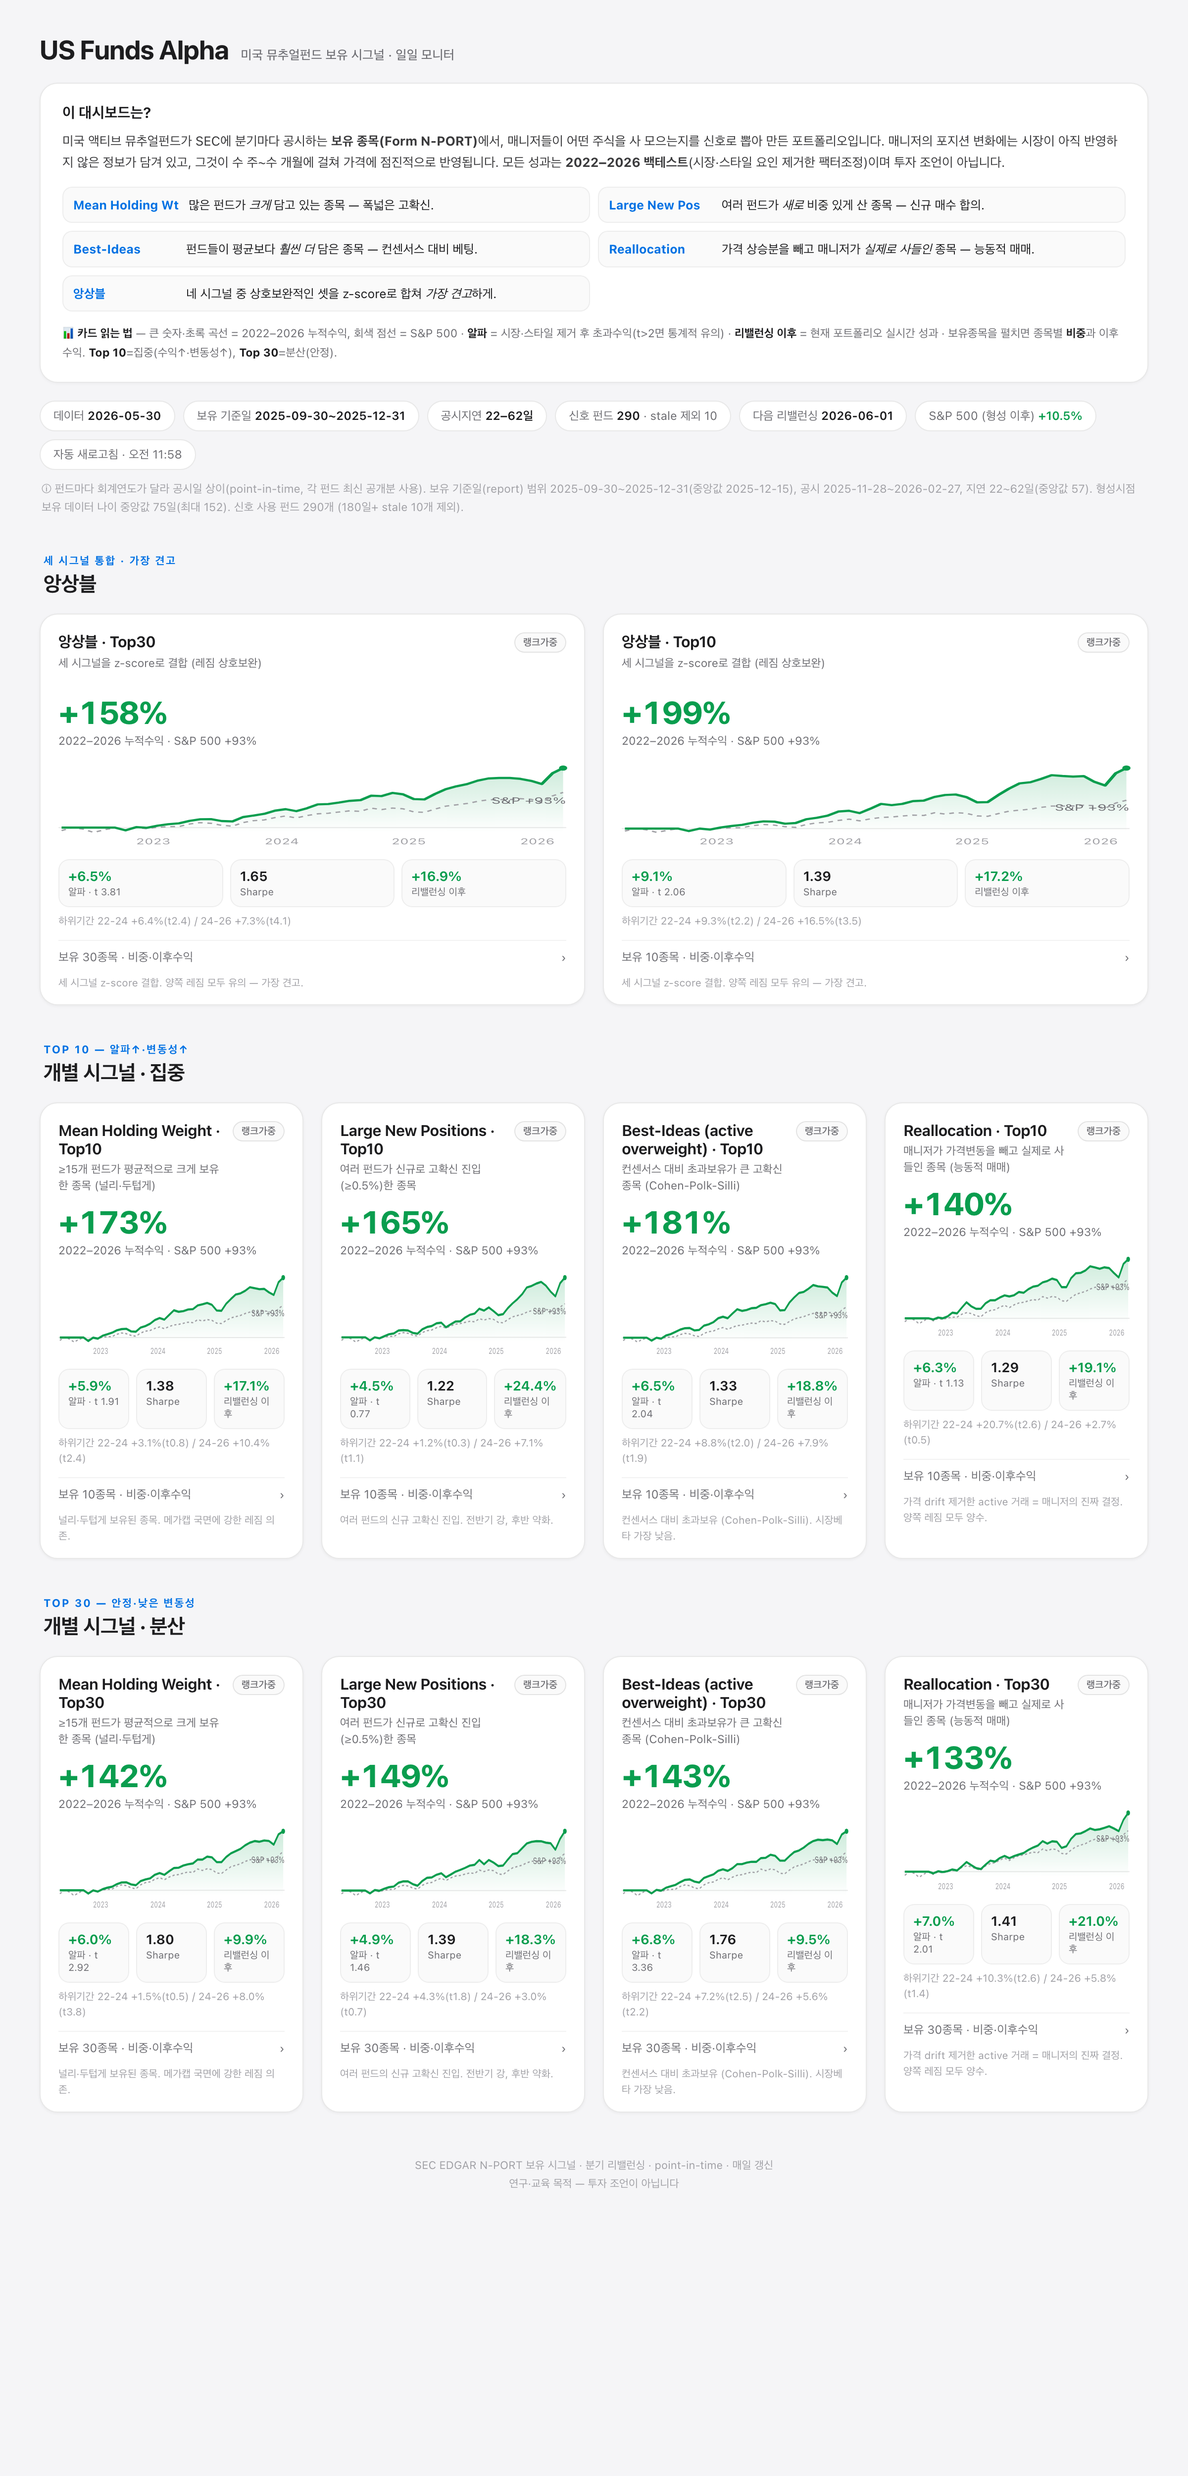
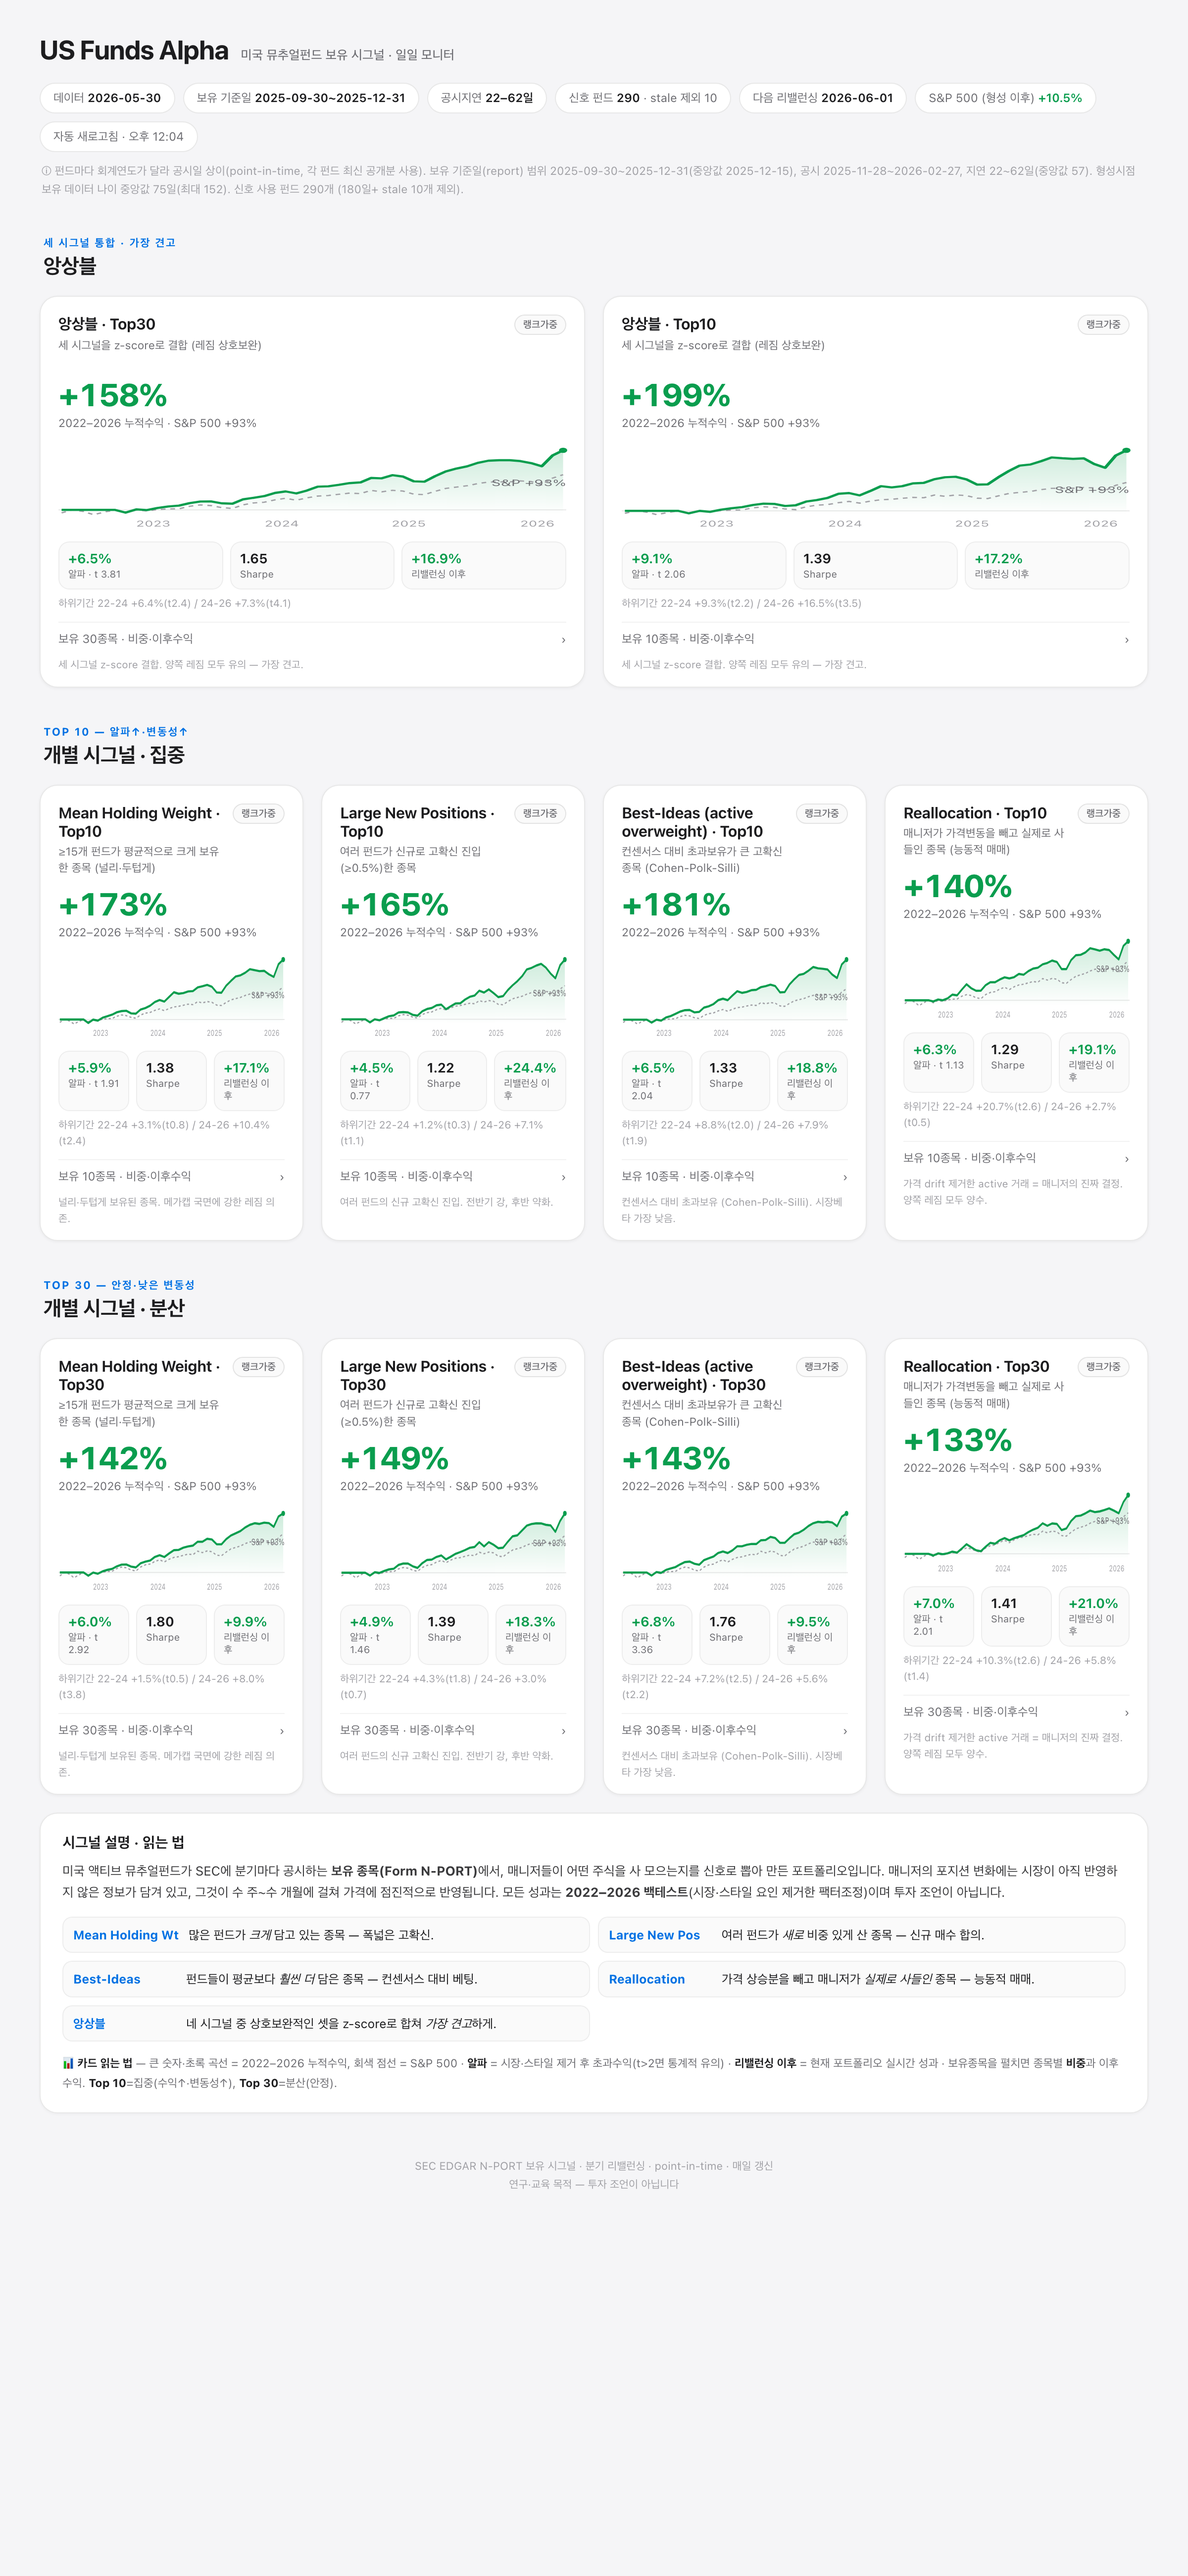
모바일 반응형 보강 + 시그널 설명을 하단으로 이동
- 시그널 설명/읽는 법 패널을 상단 → 카드 하단으로 이동
- 모바일(≤520px): 브랜드 세로 스택, 폰트·패딩 조정, 보유표 가로스크롤
- 데스크톱 스크린샷 갱신

diff --git a/dashboard/index.html b/dashboard/index.html
@@ -95,14 +95,26 @@ details.holds>summary::-webkit-details-marker{display:none}
 .hhead{color:var(--mut2);font-size:9.5px;font-weight:600;border-bottom:1px solid var(--line)}
 .note{color:var(--mut2);font-size:10.5px;line-height:1.55;margin:10px 0 0}
 .foot{color:var(--mut2);font-size:11px;text-align:center;margin-top:44px;line-height:1.7}
+@media(max-width:520px){
+  .wrap{padding:22px 13px 64px}
+  .brand{flex-direction:column;gap:3px} .brand h1{font-size:23px}
+  .hero .num{font-size:29px}
+  .hl{overflow-x:auto} .hrow{min-width:300px}
+  .intro{padding:16px 16px}
+}
 </style>
 </head>
 <body>
 <div class="wrap">
   <div class="brand"><h1>US Funds Alpha</h1><span class="tag">미국 뮤추얼펀드 보유 시그널 · 일일 모니터</span></div>
 
+  <div class="meta" id="meta"></div>
+  <div class="disc" id="disc"></div>
+  <div class="alert" id="alert"></div>
+  <div id="sections"></div>
+
   <div class="intro">
-    <h3>이 대시보드는?</h3>
+    <h3>시그널 설명 · 읽는 법</h3>
     <p>미국 액티브 뮤추얼펀드가 SEC에 분기마다 공시하는 <b>보유 종목(Form&nbsp;N-PORT)</b>에서, 매니저들이
        어떤 주식을 사 모으는지를 신호로 뽑아 만든 포트폴리오입니다. 매니저의 포지션 변화에는 시장이 아직
        반영하지 않은 정보가 담겨 있고, 그것이 수 주~수 개월에 걸쳐 가격에 점진적으로 반영됩니다.
@@ -119,10 +131,6 @@ details.holds>summary::-webkit-details-marker{display:none}
       보유종목을 펼치면 종목별 <b>비중</b>과 이후 수익. <b>Top 10</b>=집중(수익↑·변동성↑), <b>Top 30</b>=분산(안정).</div>
   </div>
 
-  <div class="meta" id="meta"></div>
-  <div class="disc" id="disc"></div>
-  <div class="alert" id="alert"></div>
-  <div id="sections"></div>
   <div class="foot">SEC EDGAR N-PORT 보유 시그널 · 분기 리밸런싱 · point-in-time · 매일 갱신<br>연구·교육 목적 — 투자 조언이 아닙니다</div>
 </div>
 <script>
